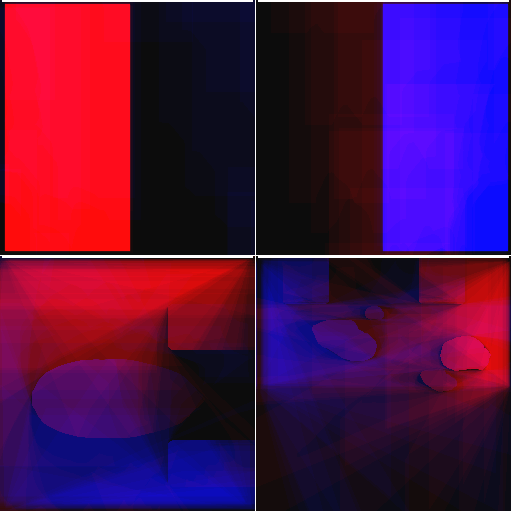
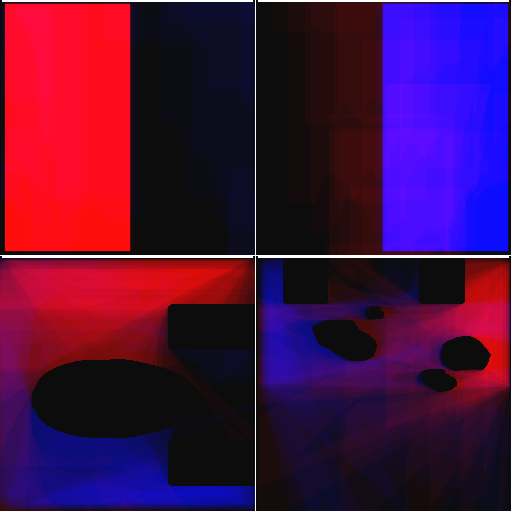
AVX is done! seeing ~2x speedup with lower number of samples, hopefully much more with higher, more coherent samples

diff --git a/src/lightmap.cpp b/src/lightmap.cpp
@@ -12,8 +12,6 @@
 // 6 - some other rock
 // 7 - walls
 
-#define ENABLE_AVX 0
-
 #define RESTRICT_LIGHTING 1
 const int MODELS_TO_LIGHT[] = {
     7
@@ -29,8 +27,8 @@ const uint64 PLANE_RIGHT = 2;
 const uint64 PLANE_FLOOR = 3;
 #define PLANE_TO_LIGHT PLANE_FLOOR
 
-const float32 RESOLUTION_PER_WORLD_UNIT = 256.0f;
-const uint32 NUM_HEMISPHERE_SAMPLES = 256;
+const float32 RESOLUTION_PER_WORLD_UNIT = 64.0f;
+const uint32 NUM_HEMISPHERE_SAMPLES = 64;
 const uint32 SAMPLES_PER_GROUP = 8;
 static_assert(NUM_HEMISPHERE_SAMPLES % SAMPLES_PER_GROUP == 0);
 const uint32 NUM_HEMISPHERE_SAMPLE_GROUPS = NUM_HEMISPHERE_SAMPLES / SAMPLES_PER_GROUP;
@@ -97,6 +95,31 @@ Vec3_8 Multiply_8(Vec3_8 v1, Vec3_8 v2)
     };
 }
 
+Vec3_8 Divide_8(Vec3_8 v, __m256 s)
+{
+    const __m256 sInv = _mm256_rcp_ps(s);
+    return Vec3_8 {
+        .x = _mm256_mul_ps(v.x, sInv),
+        .y = _mm256_mul_ps(v.y, sInv),
+        .z = _mm256_mul_ps(v.z, sInv),
+    };
+}
+
+__m256 MagSq_8(Vec3_8 v)
+{
+    return _mm256_add_ps(_mm256_add_ps(_mm256_mul_ps(v.x, v.x), _mm256_mul_ps(v.y, v.y)), _mm256_mul_ps(v.z, v.z));
+}
+__m256 Mag_8(Vec3_8 v)
+{
+    return _mm256_sqrt_ps(MagSq_8(v));
+}
+
+Vec3_8 Normalize_8(Vec3_8 v)
+{
+    const __m256 mag = Mag_8(v);
+    return Divide_8(v, mag);
+}
+
 __m256 Dot_8(Vec3_8 v1, Vec3_8 v2)
 {
     return _mm256_add_ps(_mm256_add_ps(_mm256_mul_ps(v1.x, v2.x), _mm256_mul_ps(v1.y, v2.y)),
@@ -114,11 +137,10 @@ Vec3_8 Cross_8(Vec3_8 v1, Vec3_8 v2)
 
 Vec3_8 Inverse_8(Vec3_8 v)
 {
-    const __m256 one8 = _mm256_set1_ps(1.0f);
     return Vec3_8 {
-        .x = _mm256_div_ps(one8, v.x),
-        .y = _mm256_div_ps(one8, v.y),
-        .z = _mm256_div_ps(one8, v.z),
+        .x = _mm256_rcp_ps(v.x),
+        .y = _mm256_rcp_ps(v.y),
+        .z = _mm256_rcp_ps(v.z),
     };
 }
 
@@ -169,6 +191,19 @@ Vec3_8 Multiply_8(Quat_8 q, Vec3_8 v)
     return Vec3_8 { qvqInv.x, qvqInv.y, qvqInv.z };
 }
 
+__m256 RayPlaneIntersection_8(Vec3_8 rayOrigin8, Vec3_8 rayDir8, Vec3_8 planeOrigin8, Vec3_8 planeNormal8, __m256* t8)
+{
+    const __m256 zero8 = _mm256_setzero_ps();
+
+    const __m256 dotDirNormal8 = Dot_8(rayDir8, planeNormal8);
+    // Set mask when dot is non-zero (otherwise, ray direction is perpendicular to plane normal, so no intersection)
+    const __m256 result8 = _mm256_cmp_ps(dotDirNormal8, zero8, _CMP_NEQ_OQ);
+
+    const __m256 invDotDirNormal8 = _mm256_rcp_ps(dotDirNormal8);
+    *t8 = _mm256_mul_ps(Dot_8(Subtract_8(planeOrigin8, rayOrigin8), planeNormal8), invDotDirNormal8);
+    return result8;
+}
+
 __m256 RayAxisAlignedBoxIntersection_8(Vec3_8 rayOrigin8, Vec3_8 rayDirInv8, Vec3 boxMin, Vec3 boxMax)
 {
     const Vec3_8 boxMin8 = Set1Vec3_8(boxMin);
@@ -194,17 +229,17 @@ __m256 RayAxisAlignedBoxIntersection_8(Vec3_8 rayOrigin8, Vec3_8 rayDirInv8, Vec
 
     // NOTE: doing an ordered (O) and non-signaling (Q) compare for greater than or equals here
     // This means that if there's a NaN value, the comparison will return false, but no exception will be triggered
-    __m256 result = _mm256_cmp_ps(tMax, tMin, _CMP_GE_OQ);
-    return result;
+    __m256 result8 = _mm256_cmp_ps(tMax, tMin, _CMP_GE_OQ);
+    return result8;
 }
 
 __m256 RayTriangleIntersection_8(Vec3_8 rayOrigin8, Vec3_8 rayDir8, Vec3 a, Vec3 b, Vec3 c, __m256* t8)
 {
     const __m256 zero8 = _mm256_setzero_ps();
     const __m256 one8 = _mm256_set1_ps(1.0f);
-    const float32 EPSILON = 0.000001f;
-    const __m256 EPSILON8 = _mm256_set1_ps(EPSILON);
-    const __m256 NEG_EPSILON8 = _mm256_set1_ps(-EPSILON);
+    const float32 epsilon = 0.000001f;
+    const __m256 epsilon8 = _mm256_set1_ps(epsilon);
+    const __m256 negEpsilon8 = _mm256_set1_ps(-epsilon);
 
     const Vec3_8 a8 = Set1Vec3_8(a);
     const Vec3_8 b8 = Set1Vec3_8(b);
@@ -214,27 +249,27 @@ __m256 RayTriangleIntersection_8(Vec3_8 rayOrigin8, Vec3_8 rayDir8, Vec3 a, Vec3
     const Vec3_8 ac8 = Subtract_8(c8, a8);
     const Vec3_8 h8 = Cross_8(rayDir8, ac8);
     const __m256 x8 = Dot_8(ab8, h8);
-    // Mask will be zeroed when NOT -epsilon <= x <= epsilon
-    const __m256 nonParallelMask1 = _mm256_cmp_ps(NEG_EPSILON8, x8, _CMP_LE_OQ);
-    const __m256 nonParallelMask2 = _mm256_cmp_ps(x8, EPSILON8, _CMP_LE_OQ);
+    // Result mask is set when x < -EPSILON || x > EPSILON
+    __m256 result8 = _mm256_or_ps(_mm256_cmp_ps(x8, negEpsilon8, _CMP_LT_OQ), _mm256_cmp_ps(x8, epsilon8, _CMP_GT_OQ));
 
-    const __m256 f8 = _mm256_div_ps(one8, x8);
+    const __m256 f8 = _mm256_rcp_ps(x8);
     const Vec3_8 s8 = Subtract_8(rayOrigin8, a8);
     const __m256 u8 = _mm256_mul_ps(f8, Dot_8(s8, h8));
-    // Mask will be zeroed when NOT 0.0f <= u <= 1.0f
-    const __m256 insideUMask1 = _mm256_cmp_ps(zero8, u8, _CMP_LE_OQ);
-    const __m256 insideUMask2 = _mm256_cmp_ps(u8, one8, _CMP_LE_OQ);
+    // Result mask is set when 0.0f <= u <= 1.0f
+    result8 = _mm256_and_ps(result8, _mm256_cmp_ps(zero8, u8, _CMP_LE_OQ));
+    result8 = _mm256_and_ps(result8, _mm256_cmp_ps(u8, one8, _CMP_LE_OQ));
 
     const Vec3_8 q8 = Cross_8(s8, ab8);
     const __m256 v8 = _mm256_mul_ps(f8, Dot_8(rayDir8, q8));
-    // Mask will be zeroed when NOT 0.0f <= v && u + v <= 1.0f
-    const __m256 insideVMask1 = _mm256_cmp_ps(zero8, v8, _CMP_LE_OQ);
-    const __m256 insideVMask2 = _mm256_cmp_ps(_mm256_add_ps(u8, v8), one8, _CMP_LE_OQ);
+    // Result mask is set when 0.0f <= v && u + v <= 1.0f
+    result8 = _mm256_and_ps(result8, _mm256_cmp_ps(zero8, v8, _CMP_LE_OQ));
+    result8 = _mm256_and_ps(result8, _mm256_cmp_ps(_mm256_add_ps(u8, v8), one8, _CMP_LE_OQ));
 
     *t8 = _mm256_mul_ps(f8, Dot_8(ac8, q8));
-    // NOTE if a is 0, intersection is a line (I think)
-    // return true;
-    return zero8;
+    // Result mask is set when t8 >= 0.0f (otherwise, intersection point is behind the ray origin)
+    // NOTE if t is 0, intersection is a line (I think)
+    result8 = _mm256_and_ps(result8, _mm256_cmp_ps(*t8, zero8, _CMP_GE_OQ));
+    return result8;
 }
 
 // -------------------------------------------------------------------------------------
@@ -425,6 +460,8 @@ internal Vec3 RaycastColor(Array<SampleGroup> sampleGroups, Vec3 pos, Vec3 norma
     const Quat xToNormalRot = QuatRotBetweenVectors(Vec3::unitX, normal);
     const Vec3 ambient = { 0.05f, 0.05f, 0.05f };
 
+    const float32 largeFloat = 1e8;
+    const __m256 largeFloat8 = _mm256_set1_ps(largeFloat);
     const __m256 zero8 = _mm256_setzero_ps();
     const Vec3_8 pos8 = Set1Vec3_8(pos);
     const Quat_8 xToNormalRot8 = Set1Quat_8(xToNormalRot);
@@ -433,14 +470,12 @@ internal Vec3 RaycastColor(Array<SampleGroup> sampleGroups, Vec3 pos, Vec3 norma
     static_assert(SAMPLES_PER_GROUP == 8);
     Vec3 outputColor = ambient;
     for (uint32 m = 0; m < sampleGroups.size; m++) {
-#if ENABLE_AVX
-        // New AVX path
         Vec3_8 sample8 = SetVec3_8(sampleGroups[m].group);
         Vec3_8 sampleNormal8 = Multiply_8(xToNormalRot8, sample8);
         Vec3_8 sampleNormalInv8 = Inverse_8(sampleNormal8);
         Vec3_8 originOffset8 = Add_8(pos8, Multiply_8(sampleNormal8, offset8));
 
-        __m256 closestIntersectDist8 = _mm256_set1_ps(1e8);
+        __m256 closestIntersectDist8 = largeFloat8;
         for (uint32 i = 0; i < geometry.meshes.size; i++) {
 #if RESTRICT_LIGHTING && RESTRICT_OCCLUSION
             if (i != MODEL_TO_OCCLUDE) continue;
@@ -455,86 +490,51 @@ internal Vec3 RaycastColor(Array<SampleGroup> sampleGroups, Vec3 pos, Vec3 norma
 
             for (uint32 j = 0; j < mesh.triangles.size; j++) {
                 const RaycastTriangle& triangle = mesh.triangles[j];
-                Vec3_8 triangleNormal8 = Set1Vec3_8(triangle.normal);
-                __m256 dot = Dot_8(sampleNormal8, triangleNormal8);
-
                 __m256 t8;
                 __m256 tIntersect8 = RayTriangleIntersection_8(originOffset8, sampleNormal8,
                                                                triangle.pos[0], triangle.pos[1], triangle.pos[2], &t8);
-
+                t8 = _mm256_blendv_ps(largeFloat8, t8, tIntersect8);
+                closestIntersectDist8 = _mm256_min_ps(closestIntersectDist8, t8);
             }
         }
-#else
-        // Old, non-AVX path
-        for (uint32 n = 0; n < SAMPLES_PER_GROUP; n++) {
-            const Vec3 sampleNormal = xToNormalRot * sampleGroups[m].group[n];
-            const Vec3 sampleNormalInv = {
-                1.0f / sampleNormal.x,
-                1.0f / sampleNormal.y,
-                1.0f / sampleNormal.z
-            };
 
-            const float32 offset = 0.001f;
-            const Vec3 originOffset = pos + sampleNormal * offset;
+        for (int l = 0; l < C_ARRAY_LENGTH(LIGHT_RECTS); l++) {
+            const Vec3_8 lightRectOrigin8 = Set1Vec3_8(LIGHT_RECTS[l].origin);
+            const Vec3_8 lightRectNormal8 = Set1Vec3_8(Normalize(Cross(LIGHT_RECTS[l].width, LIGHT_RECTS[l].height)));
 
-            float32 closestIntersectDist = 1e8;
-            const RaycastTriangle* closestTriangle = nullptr;
-            for (uint32 i = 0; i < geometry.meshes.size; i++) {
-#if RESTRICT_LIGHTING && RESTRICT_OCCLUSION
-                if (i != MODEL_TO_OCCLUDE) continue;
-#endif
-                const RaycastMesh& mesh = geometry.meshes[i];
-                float32 tAABB;
-                if (!RayAxisAlignedBoxIntersection(originOffset, sampleNormalInv, mesh.min, mesh.max, &tAABB)) {
-                    continue;
-                }
-                // TODO slightly untested... does this actually work?
-                if (tAABB > closestIntersectDist) {
-                    continue;
-                }
+            const Vec3_8 lightWidth8 = Set1Vec3_8(LIGHT_RECTS[l].width);
+            const Vec3_8 lightHeight8 = Set1Vec3_8(LIGHT_RECTS[l].height);
+            const __m256 lightRectWidth8 = Mag_8(lightWidth8);
+            const Vec3_8 lightRectUnitWidth8 = Divide_8(lightWidth8, lightRectWidth8);
+            const __m256 lightRectHeight8 = Mag_8(lightHeight8);
+            const Vec3_8 lightRectUnitHeight8 = Divide_8(lightHeight8, lightRectHeight8);
 
-                for (uint32 j = 0; j < mesh.triangles.size; j++) {
-                    const RaycastTriangle& triangle = mesh.triangles[j];
-                    float32 dot = Dot(sampleNormal, triangle.normal);
-                    if (dot > 0.0f) continue; // Triangle facing in the same direction as normal (away from ray)
+            __m256 t8;
+            __m256 pIntersect8 = RayPlaneIntersection_8(pos8, sampleNormal8, lightRectOrigin8, lightRectNormal8, &t8);
 
-                    float32 t;
-                    if (RayTriangleIntersection(originOffset, sampleNormal,
-                                                triangle.pos[0], triangle.pos[1], triangle.pos[2], &t)) {
-                        if (t > 0.0f && t < closestIntersectDist) {
-                            closestIntersectDist = t;
-                            closestTriangle = &triangle;
-                        }
-                    }
-                }
-            }
+            // Pixels are lit only when 0.0f <= t < closestIntersectDist
+            __m256 lit8 = _mm256_and_ps(pIntersect8, _mm256_cmp_ps(zero8, t8, _CMP_LE_OQ));
+            lit8 = _mm256_and_ps(lit8, _mm256_cmp_ps(t8, closestIntersectDist8, _CMP_LT_OQ));
 
-            for (int l = 0; l < C_ARRAY_LENGTH(LIGHT_RECTS); l++) {
-                const Vec3 lightRectNormal = Normalize(Cross(LIGHT_RECTS[l].width, LIGHT_RECTS[l].height));
-                const float32 lightRectWidth = Mag(LIGHT_RECTS[l].width);
-                const Vec3 lightRectUnitWidth = LIGHT_RECTS[l].width / lightRectWidth;
-                const float32 lightRectHeight = Mag(LIGHT_RECTS[l].height);
-                const Vec3 lightRectUnitHeight = LIGHT_RECTS[l].height / lightRectHeight;
+            const Vec3_8 intersect8 = Add_8(pos8, Multiply_8(sampleNormal8, t8));
+            const Vec3_8 rectOriginToIntersect8 = Subtract_8(intersect8, lightRectOrigin8);
 
-                float32 t;
-                if (!RayPlaneIntersection(pos, sampleNormal, LIGHT_RECTS[l].origin, lightRectNormal, &t)) {
-                    continue;
-                }
-                if (t < 0.0f || t > closestIntersectDist) {
-                    continue;
-                }
+            const __m256 projWidth8 = Dot_8(rectOriginToIntersect8, lightRectUnitWidth8);
+            lit8 = _mm256_and_ps(lit8, _mm256_cmp_ps(zero8, projWidth8, _CMP_LE_OQ));
+            lit8 = _mm256_and_ps(lit8, _mm256_cmp_ps(projWidth8, lightRectWidth8, _CMP_LE_OQ));
 
-                const Vec3 intersect = pos + t * sampleNormal;
-                const Vec3 rectOriginToIntersect = intersect - LIGHT_RECTS[l].origin;
-                const float32 projWidth = Dot(rectOriginToIntersect, lightRectUnitWidth);
-                const float32 projHeight = Dot(rectOriginToIntersect, lightRectUnitHeight);
-                if (0.0f <= projWidth && projWidth <= lightRectWidth && 0.0f <= projHeight && projHeight <= lightRectHeight) {
+            const __m256 projHeight8 = Dot_8(rectOriginToIntersect8, lightRectUnitHeight8);
+            lit8 = _mm256_and_ps(lit8, _mm256_cmp_ps(zero8, projHeight8, _CMP_LE_OQ));
+            lit8 = _mm256_and_ps(lit8, _mm256_cmp_ps(projHeight8, lightRectHeight8, _CMP_LE_OQ));
+
+            int bitMask = _mm256_movemask_ps(lit8);
+            for (int i = 0; i < 8; i++) {
+                if (bitMask & (1 << i)) {
                     const float32 lightIntensity = LIGHT_RECTS[l].intensity / numSamples;
                     outputColor += lightIntensity * LIGHT_RECTS[l].color;
                 }
             }
         }
-#endif
     }
 
     outputColor.r = ClampFloat32(outputColor.r, 0.0f, 1.0f);
